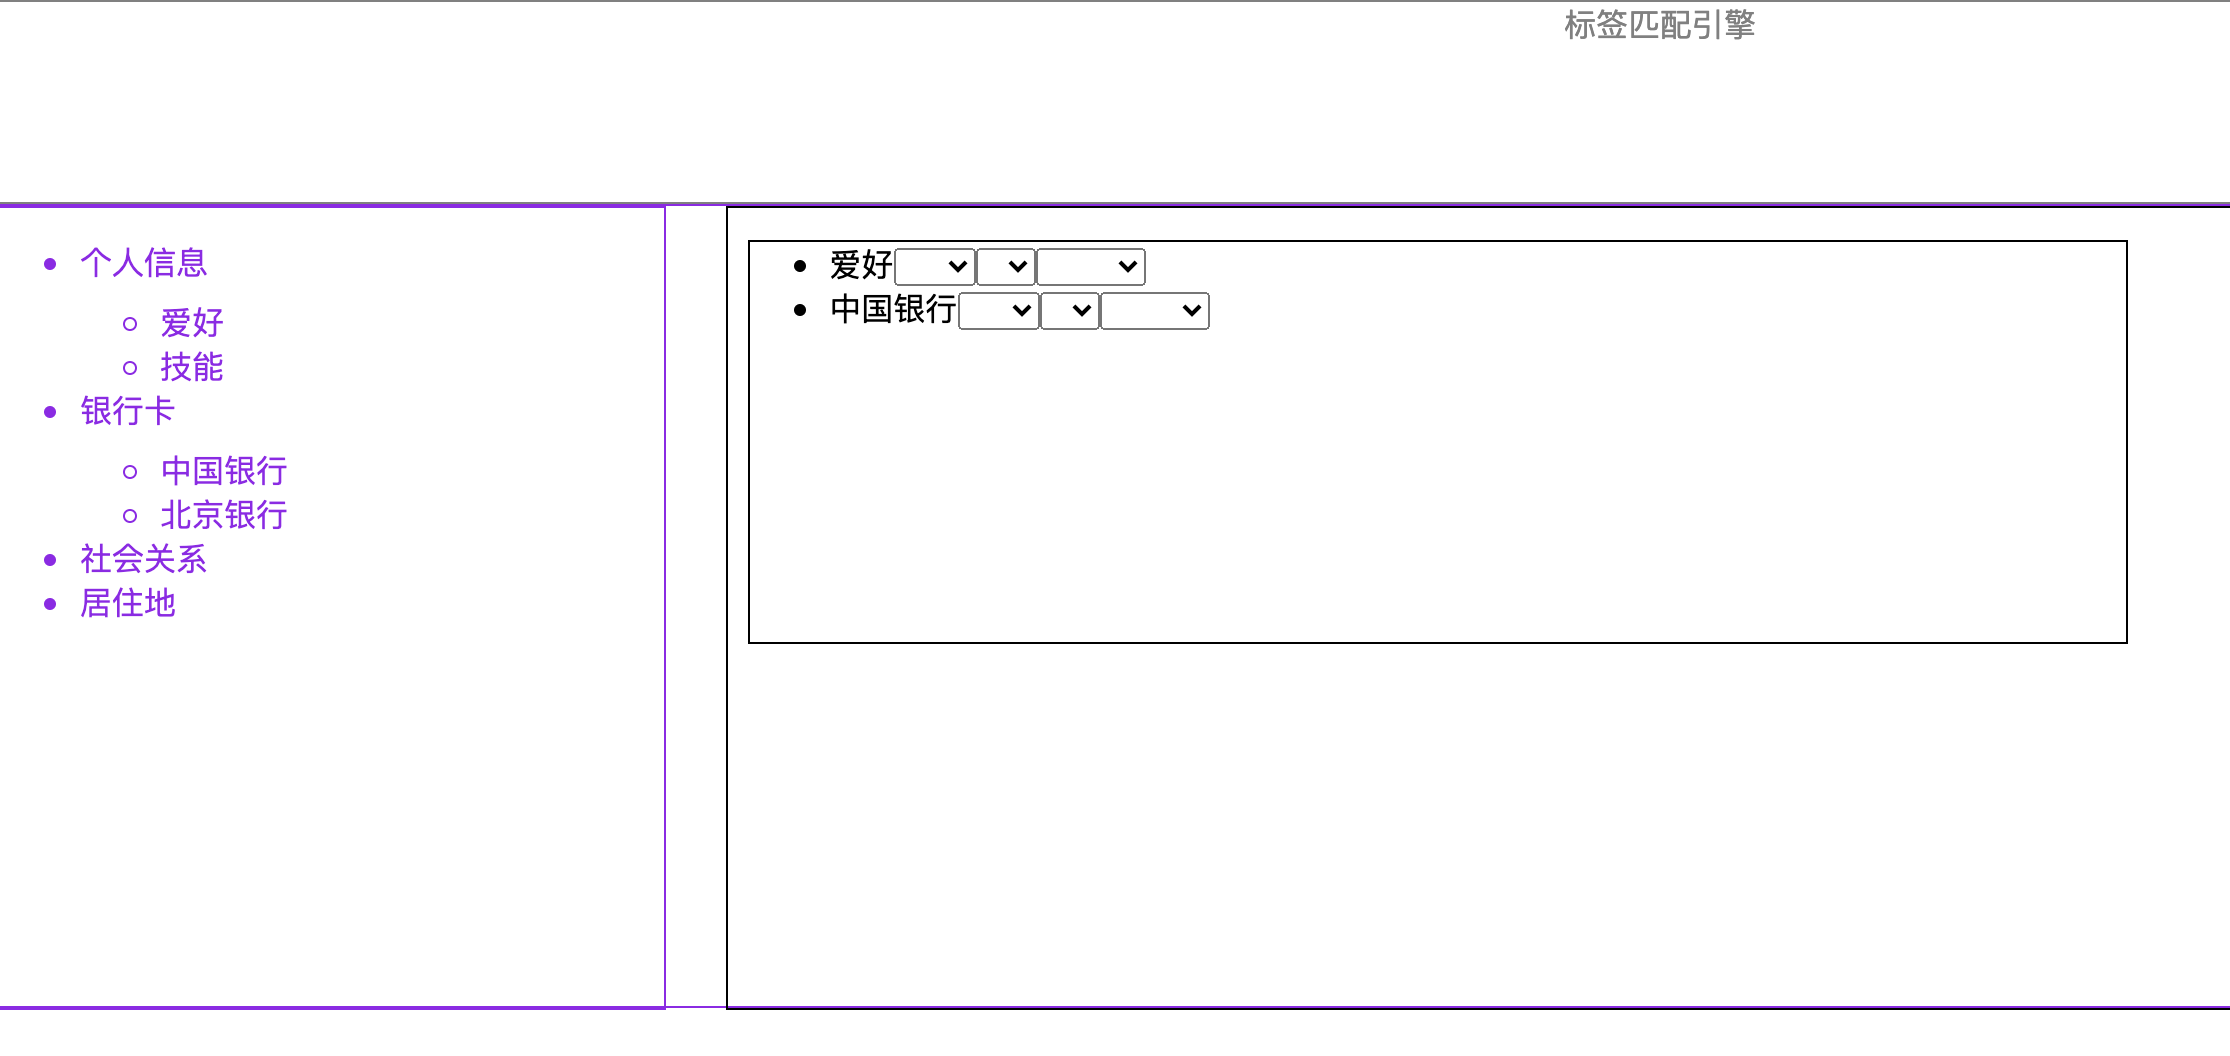
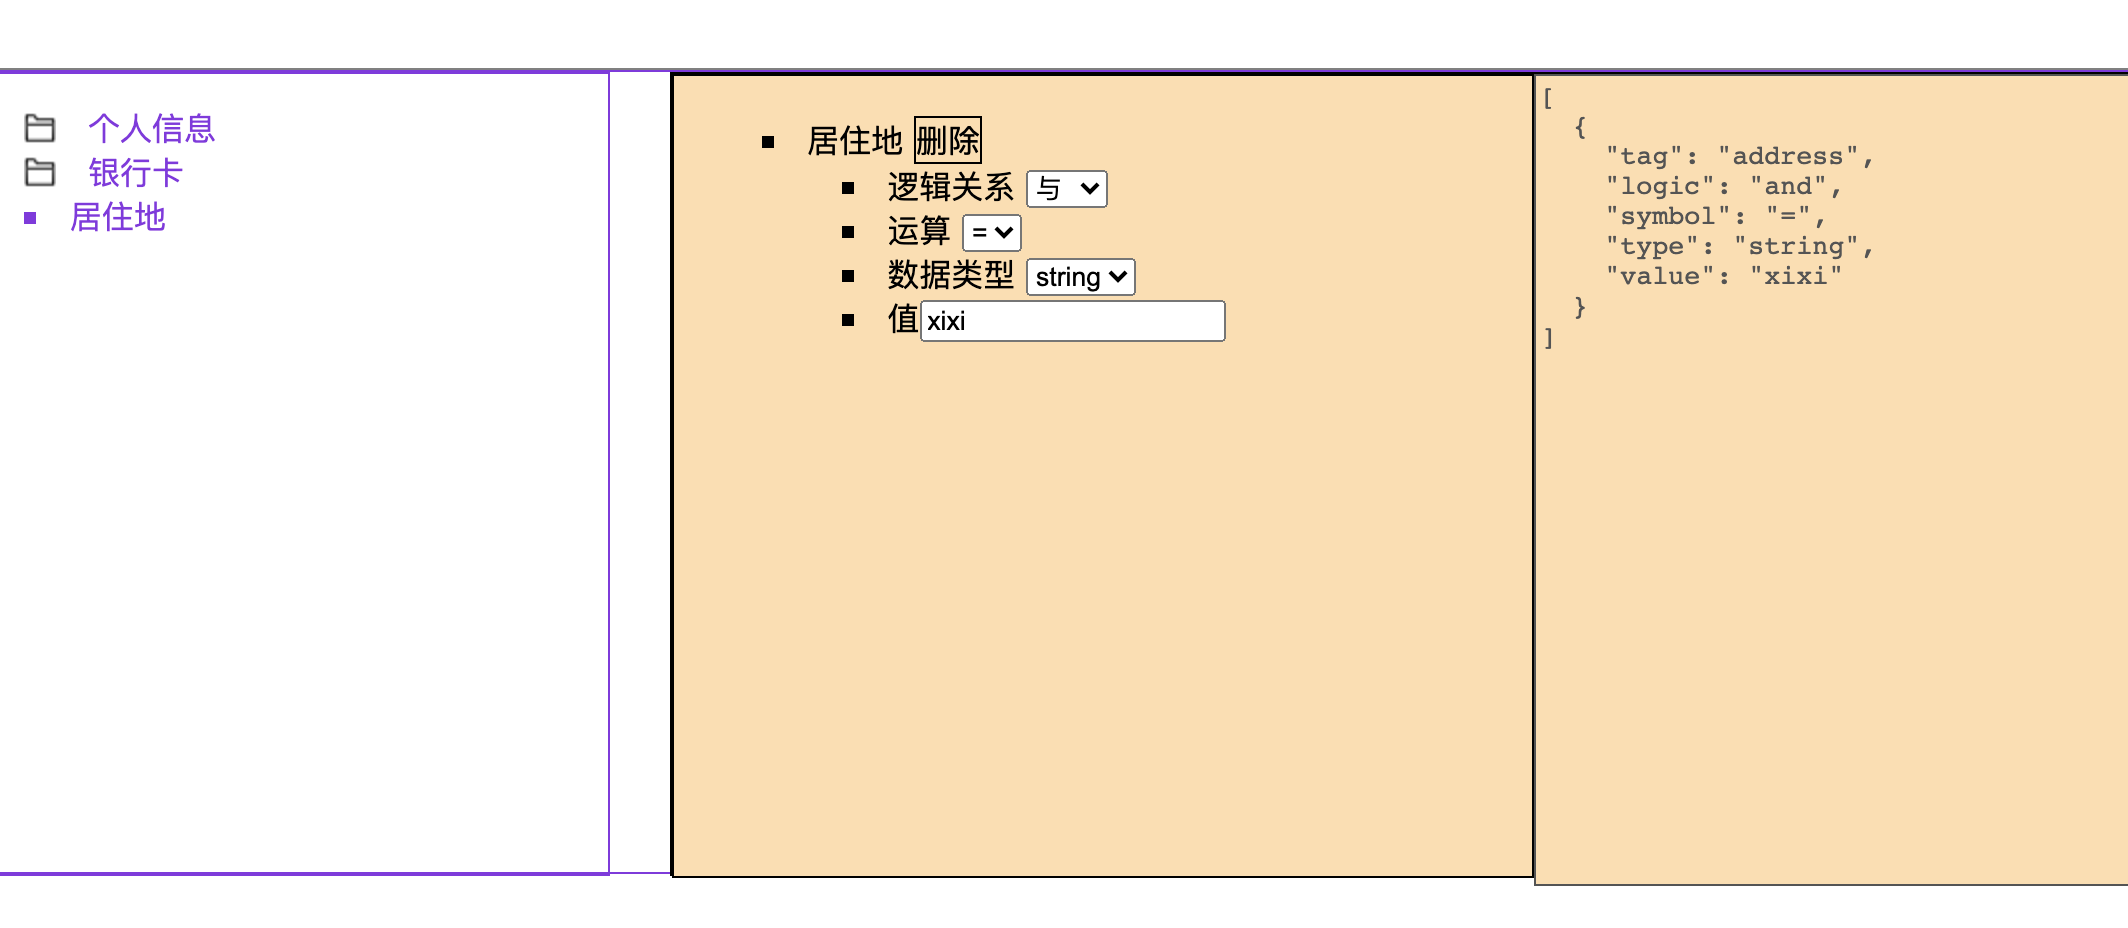
dd

diff --git a/js.js b/js.js
@@ -6,49 +6,78 @@ $(document).on('click', 'li', function () {
 })
 
 
+function getLogicRelation() {
+  return `
+<li>逻辑关系
+<select name="logic">
+<option ></option>
+<option value="and">与</option>
+<option value="or"><</option>
+<option value="not">not</option>
+</select>
+</li>`;
+}
+
+function setCalculateSymbol() {
+  return `
+<li>运算
+<select name="symbol">
+<option ></option>
+<option value=">">></option>
+<option value="<"><</option>
+<option value="=">=</option>
+</select>
+</li>`;
+}
+
+function setTagType() {
+  return `
+<li>数据类型
+<select name="type">
+<option ></option>
+<option value="int">int</option>
+<option value="string">string</option>
+<option value="array">array</option>
+</select>
+</li>`;
+}
+
+function setValue(){
+  return '<li>值<input type="text"></li>'
+}
+
 var menu = [
   {
     "name": "个人信息",
+    "tag": "userProfile",
     "id": 1,
     "sub": [{
       "name": "爱好",
+      "tag": "hobby",
       "id": 1,
       "sub": [],
-    },{
+    }, {
       "name": "技能",
+      "tag": "skill",
       "id": 1,
       "sub": [],
     },],
   },
   {
     "name": "银行卡",
+    "tag": "bankCards",
     "id": 2,
     "sub": [
       {
         "name": "中国银行",
+        "tag": "chineseBank",
         "id": 1,
         "sub": [],
       },
 
       {
         "name": "北京银行",
-        "id": 1,
-        "sub": [],
-      }
-    ],
-  },
-  {
-    "name": "社会关系",
-    "id": 1,
-    "sub": [
-
-      {
-        "name": "王五",
-        "id": 1,
-        "sub": [],
-      },
-      {
-        "name": "李四",
+        "tag": "beijingBank",
         "id": 1,
         "sub": [],
       }
@@ -56,6 +85,7 @@ var menu = [
   },
   {
     "name": "居住地",
+    "tag": "address",
     "id": 1,
     "sub": [],
   }
@@ -68,10 +98,10 @@ function setTags(menu, ele) {
 
   for (node of menu) {
     if (node.sub.length === 0) {
-      ele.append('<li draggable="true" ondragstart="drag(event)" data-value="' + node.name + '">' + node.name + '</li>')
+      ele.append(`<li draggable="true" ondragstart="drag(event)" data-value='` + node.name + '|' + node.tag + `'>` + node.name + '</li>')
       continue
     } else {
-      ele.append('<li >' + node.name + '</li>')
+      ele.append('<li class="li-dir">' + node.name + '</li>')
     }
 
     ele.append('<ul class="sidebar "></ul>')
@@ -91,40 +121,95 @@ function allowDrop(ev) {
 
 function drop(ev) {
   ev.preventDefault();
-  var data = ev.dataTransfer.getData("value");
-  elems = data + getLogicRelation()+setCalculateSymbol()+setTagType()
-  $(ev.target).append(`<li><div ondrop="drop(event)"> ${elems} </div></li>`);
+  console.log(  ev.target)
+  $(  ev.target).css({"border":""})
+  var str = ev.dataTransfer.getData("value");
 
+  data = str.split('|')
+  name=data[0]
+  tag = data[1]
+  elems = `
+    ${name} <p hidden>${tag}</p><div class="del" onclick="delLi(this)">删除</div><ul>`
+    + getLogicRelation()
+    + setCalculateSymbol()
+    + setTagType()
+    + setValue()
+    +"</ul>"
+  $(ev.target).append(`
+<li
+ondrop="drop(event)"
+ondragover="allowDrop(event)"
+ondragenter="dragenter(event)"
+ondragleave="dragleave(event)"
+class="item"
+> ${elems} </li>`);
+
+  ulChange()
 }
 
 function drag(ev) {
   value = $(ev.target).attr("data-value");
   ev.dataTransfer.setData("value", value);
+  //ev.dataTransfer.setDragImage(image, xOffset, yOffset);
 }
 
-function getLogicRelation() {
-  return `<select name="logic">
-<option ></option>
-<option value="and">与</option>
-<option value="or"><</option>
-<option value="not">not</option>
-</select>`;
+
+function delLi(ele) {
+  $(ele).parent().remove()
+  ulChange()
 }
 
-function setCalculateSymbol() {
-  return `<select name="symbol">
-<option ></option>
-<option value="1">></option>
-<option value="2"><</option>
-<option value="3">=</option>
-</select>`;
+function ulChange() {
+  var jsonDiv = $("#json")
+  var lis = $(".tag-ul").children()
+  if (!lis) {
+    jsonDiv.value = '[]'
+    return
+  }
+  var result = [];
+
+  for (i = 0; i < lis.length; i++) {
+    li = $(lis[i])
+    children = li.children()
+    var tag = children[0].innerText
+    console.log(tag)
+    var ul = children[2]
+    var fields = $(ul).children()
+    var fieldIdx = 0
+
+    console.log(fields)
+    item = {
+      tag: tag,
+      logic: getLiTagFieldValue(fields[fieldIdx++]),
+      symbol: getLiTagFieldValue(fields[fieldIdx++]),
+      type: getLiTagFieldValue(fields[fieldIdx++]),
+      value: getLiTagFieldValue(fields[fieldIdx++]),
+    }
+
+    //console.log(item)
+    //console.log(li)
+
+    result.push(item)
+  }
+
+  jsonDiv.val(JSON.stringify(result, null, 2));
 }
 
-function setTagType() {
-  return `<select name="type">
-<option ></option>
-<option value="int">int</option>
-<option value="string">string</option>
-<option value="array">array</option>
-</select>`;
+function getChildrenTags() {
+
+}
+
+function dragenter(ev) {
+  ev.preventDefault();
+  $(  ev.target).css({"border":"solid red 1px"})
+}
+
+function dragleave(ev) {
+  //ev.preventDefault();
+
+  $(  ev.target).css({"border":""})
+}
+
+function getLiTagFieldValue(li) {
+  return $(li).children()[0].value
 }

diff --git a/style.css b/style.css
@@ -46,6 +46,7 @@ body html{
   color:black;
   height:100%;
   width:78%;
+  display:flex;
 }
 
 .sidebar {
@@ -53,10 +54,46 @@ body html{
   z-index: 100;
 }
 
-#right >ul{
-  width:50%;
-  height:50%;
-  color:black;
-  border:solid 1px;
-  margin-left:10px;
+.tag {
+  height:100%;
+  width:48%;
+  background-color: navajowhite;
+  border:1px solid;
+  flex:1
+}
+
+#json{
+  height:100%;
+  width:48%;
+  background-color: navajowhite;
+  border:1px solid;
+  flex:2
+}
+
+.li-dir {
+  list-style-type: none;
+  background: url("icon/dir.png") no-repeat 0rem 0.2rem;
+  background-size: 1rem 1rem;
+  text-indent: 2em;
+}
+
+ul {
+  list-style:square inside;
+}
+
+.del{
+  border:1px solid black;
+  display: inline-block;
+}
+
+.item{
+  margin:2px;
+  padding:2px;
+}
+
+.tag-ul{
+  width:100%;
+  height:99%;
+  overflow:auto;
+
 }

diff --git a/index.html b/index.html
@@ -16,7 +16,10 @@
     <ul></ul>
   </div>
   <div id="right">
-    <ul  ondrop="drop(event)" ondragover="allowDrop(event)"></ul>
+    <div class="tag">
+      <ul class="tag-ul" ondrop="drop(event)" ondragover="allowDrop(event)" onchange="ulChange()" ondragenter="dragenter(event)" ondragleave="dragleave(event)"></ul>
+    </div>
+    <textarea disabled  id="json"></textarea>
   </div>
 </div>
 <div id="footer">footer</div>
